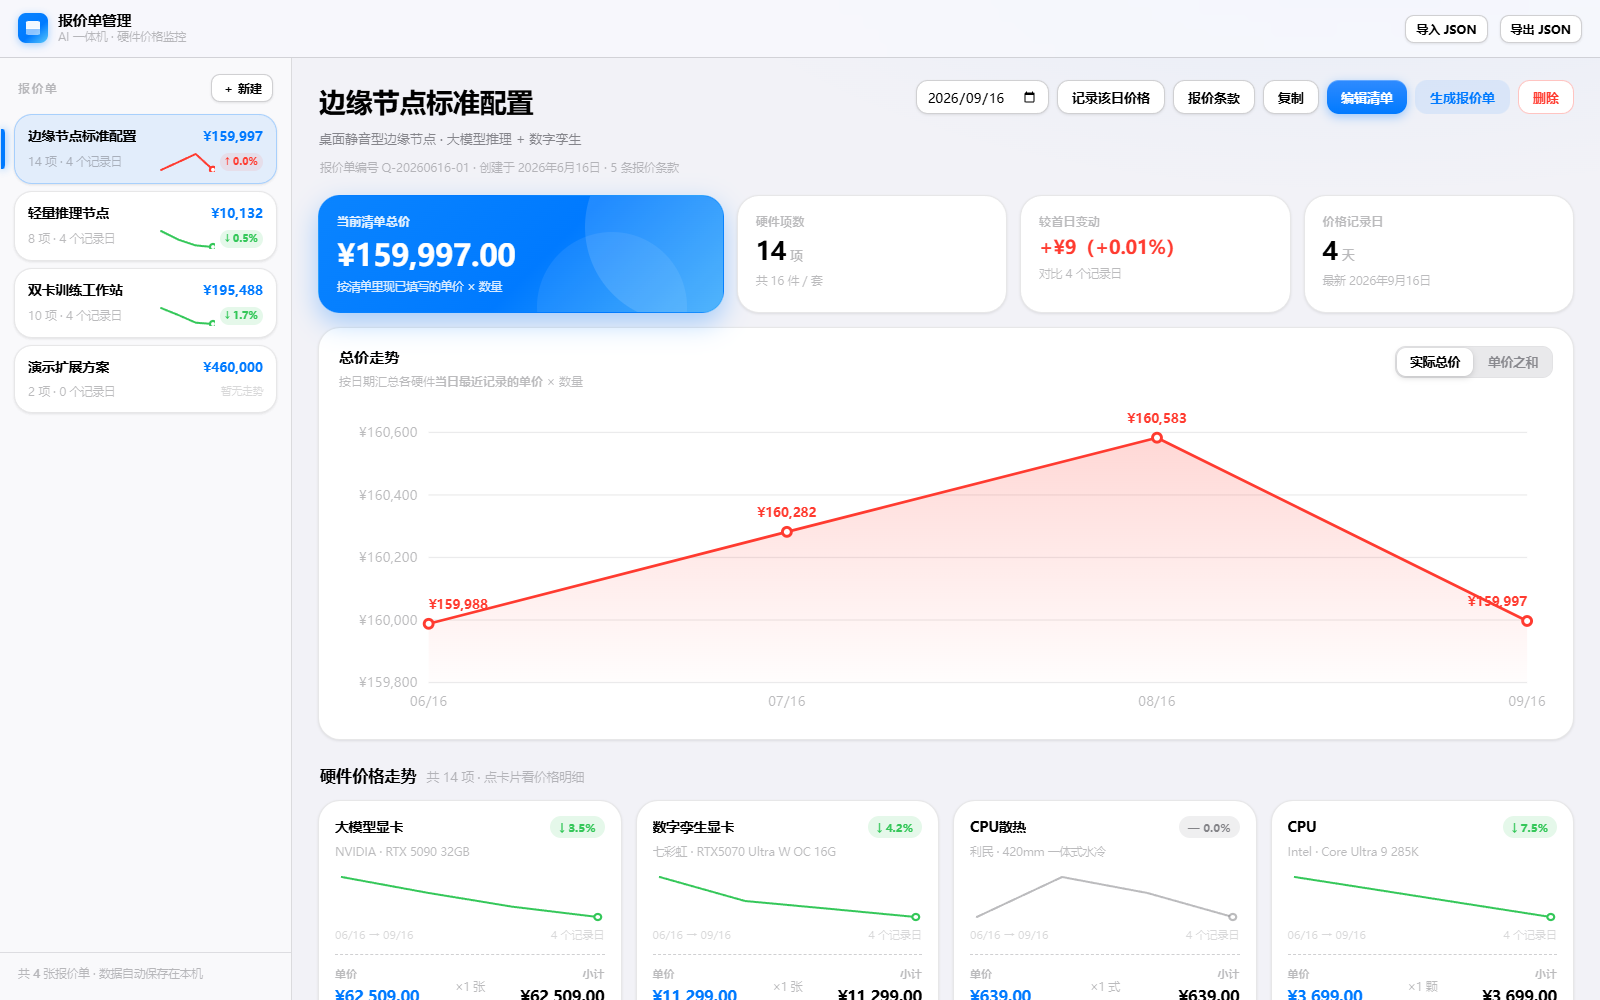
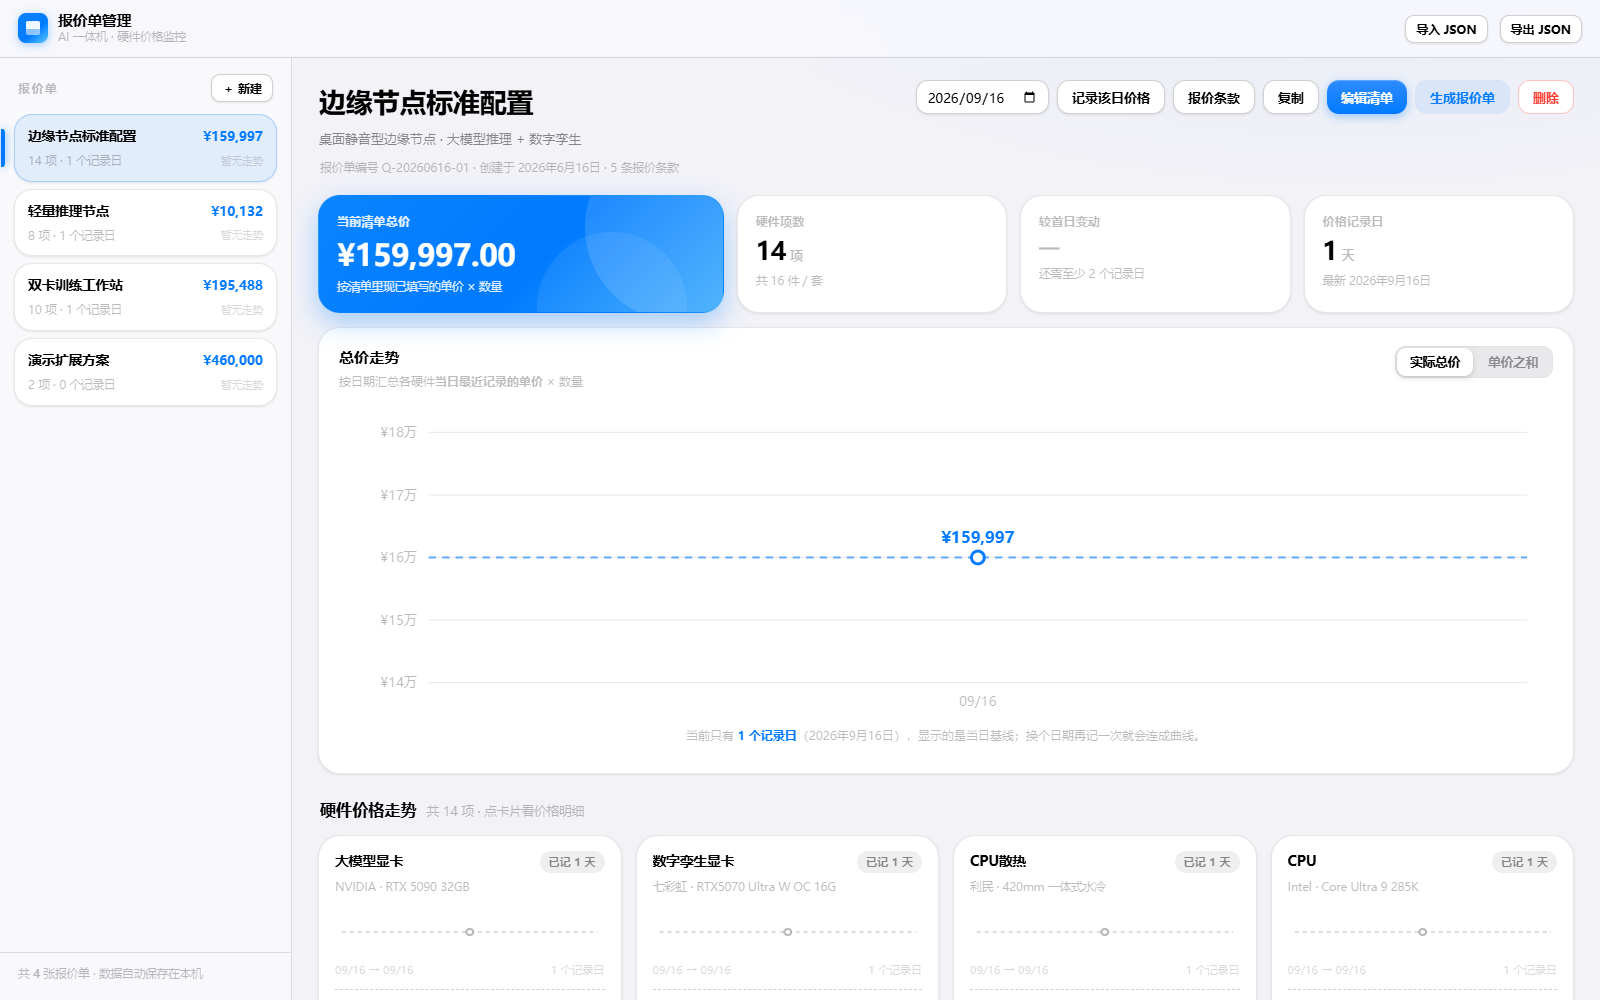
feat: 默认价格历史只保留 9.16（去掉 6/16、7/16、8/16 旧记录）
- 种子数据价格记录收敛为最新一条（2026-09-16）
- 新增「旧版默认示例清单」识别：本机若仍是上一版默认数据（未改动）自动升级
- 明细弹窗单条记录的展示微调（不再同时标注首条/最新）

diff --git a/dist/assets/app.js b/dist/assets/app.js
@@ -213,11 +213,12 @@
   ];
   function buildSeedItems(list) {
     return list.map((o) => {
-      const history = o.hist ? SEED_DATES.map((date, i) => ({
-        date,
-        price: String(o.hist[i]),
-        note: i === 0 ? "首轮询价" : i === SEED_DATES.length - 1 ? "最新询价" : ""
-      })) : [];
+      const latest = o.hist && o.hist.length ? o.hist[o.hist.length - 1] : o.price;
+      const history = o.hist ? [{
+        date: SEED_DATES[SEED_DATES.length - 1],
+        price: String(latest),
+        note: "最新询价"
+      }] : [];
       return {
         id: uid("i"),
         name: o.name,
@@ -352,6 +353,29 @@
   function seedQuotations() {
     return buildSeedQuotations().map((q, i) => makeQuotation(q, i));
   }
+  function isPristineSeed(mapped) {
+    const raw = SEED_QUOTATIONS;
+    if (mapped.length !== raw.length) return false;
+    for (let i = 0; i < raw.length; i++) {
+      const q = mapped[i];
+      const rq = raw[i];
+      if (q.name !== rq.name || q.items.length !== rq.items.length) return false;
+      for (let j = 0; j < rq.items.length; j++) {
+        const it = q.items[j];
+        const ri = rq.items[j];
+        if (it.name !== ri.name || it.price !== String(ri.price) || it.qty !== String(ri.qty ?? 1)) {
+          return false;
+        }
+        const expect = ri.hist ? SEED_DATES.map((d, k) => ({ date: d, price: String(ri.hist[k]) })) : [];
+        const h = it.history || [];
+        if (h.length !== expect.length) return false;
+        for (let k = 0; k < expect.length; k++) {
+          if (h[k].date !== expect[k].date || h[k].price !== expect[k].price) return false;
+        }
+      }
+    }
+    return true;
+  }
   function load() {
     loadPrefs();
     let raw = null;
@@ -377,6 +401,13 @@
           if (isUnusedDefaults) {
             state.quotations = seedQuotations();
             state.activeId = state.quotations[0].id;
+            save(true);
+            return;
+          }
+          const activeIdx = Math.max(0, mapped.findIndex((q) => q.id === o.activeId));
+          if (isPristineSeed(mapped)) {
+            state.quotations = seedQuotations();
+            state.activeId = state.quotations[Math.min(activeIdx, state.quotations.length - 1)].id;
             save(true);
             return;
           }
@@ -962,8 +993,8 @@
       const prev = i > 0 ? util.num(h[i - 1].price) : null;
       const d = prev === null ? null : util.num(r.price) - prev;
       const cls = d === null || d === 0 ? "flat" : d > 0 ? "up" : "down";
-      const txt = d === null ? "首条" : d === 0 ? "0" : (d > 0 ? "+" : "−") + util.money(Math.abs(d));
-      return '<tr><td style="width:150px"><input type="date" data-ri="' + i + '" data-rf="date" value="' + util.esc(r.date) + '"></td><td style="width:132px"><input class="rec-price" data-ri="' + i + '" data-rf="price" value="' + util.esc(r.price) + '" placeholder="0.00"></td><td class="rec-delta ' + cls + '" style="width:104px" data-rdelta="' + i + '">' + txt + '</td><td><input data-ri="' + i + '" data-rf="note" value="' + util.esc(r.note) + '" placeholder="备注…"></td><td style="width:52px;text-align:right">' + (i === h.length - 1 ? '<span class="tag">最新</span>' : "") + '</td><td style="width:44px;text-align:right"><button class="mini-btn del" data-act="recdel" data-ri="' + i + '" title="删除这条记录">✕</button></td></tr>';
+      const txt = d === null ? h.length > 1 ? "首条" : "—" : d === 0 ? "0" : (d > 0 ? "+" : "−") + util.money(Math.abs(d));
+      return '<tr><td style="width:150px"><input type="date" data-ri="' + i + '" data-rf="date" value="' + util.esc(r.date) + '"></td><td style="width:132px"><input class="rec-price" data-ri="' + i + '" data-rf="price" value="' + util.esc(r.price) + '" placeholder="0.00"></td><td class="rec-delta ' + cls + '" style="width:104px" data-rdelta="' + i + '">' + txt + '</td><td><input data-ri="' + i + '" data-rf="note" value="' + util.esc(r.note) + '" placeholder="备注…"></td><td style="width:52px;text-align:right">' + (i === h.length - 1 && h.length > 1 ? '<span class="tag">最新</span>' : "") + '</td><td style="width:44px;text-align:right"><button class="mini-btn del" data-act="recdel" data-ri="' + i + '" title="删除这条记录">✕</button></td></tr>';
     }).join("");
     box.innerHTML = '<table class="rec-table"><thead><tr><th>日期</th><th style="text-align:right">单价 ¥</th><th style="text-align:right">环比</th><th>备注</th><th></th><th></th></tr></thead><tbody>' + rows + "</tbody></table>";
   }

diff --git a/src/store.ts b/src/store.ts
@@ -3,7 +3,7 @@
    对应旧版 assets/js/store.js
    ========================================================= */
 import { uid, byDate, num, todayISO, pad2, toast, hasVal } from "./util";
-import { buildSeedQuotations } from "./seed";
+import { buildSeedQuotations, SEED_QUOTATIONS, SEED_DATES } from "./seed";
 import type { Quotation, QuotationItem, PriceRecord, Term, TrendMode, SeriesPoint, Stats, Delta, TrendInfo } from "./types";
 
 const KEY = "ai-quote-v1";          // 新版数据结构
@@ -137,6 +137,36 @@ function seedQuotations(): Quotation[] {
   return buildSeedQuotations().map((q, i) => makeQuotation(q, i));
 }
 
+/**
+ * 判断本机数据是否等于「上一版种的默认示例清单」（未被人改动过）。
+ * 命中后会用新版默认配置整体替换 —— 例如默认价格只保留 9.16 的升级。
+ */
+function isPristineSeed(mapped: Quotation[]): boolean {
+  const raw = SEED_QUOTATIONS;
+  if (mapped.length !== raw.length) return false;
+  for (let i = 0; i < raw.length; i++) {
+    const q = mapped[i];
+    const rq = raw[i];
+    if (q.name !== rq.name || q.items.length !== rq.items.length) return false;
+    for (let j = 0; j < rq.items.length; j++) {
+      const it = q.items[j];
+      const ri = rq.items[j];
+      if (it.name !== ri.name || it.price !== String(ri.price) || it.qty !== String(ri.qty ?? 1)) {
+        return false;
+      }
+      const expect = ri.hist
+        ? SEED_DATES.map((d, k) => ({ date: d, price: String(ri.hist![k]) }))
+        : [];
+      const h = it.history || [];
+      if (h.length !== expect.length) return false;
+      for (let k = 0; k < expect.length; k++) {
+        if (h[k].date !== expect[k].date || h[k].price !== expect[k].price) return false;
+      }
+    }
+  }
+  return true;
+}
+
 function load(): void {
   loadPrefs();
   let raw: string | null = null;
@@ -170,6 +200,16 @@ function load(): void {
         if (isUnusedDefaults) {
           state.quotations = seedQuotations();
           state.activeId = state.quotations[0].id;
+          save(true);
+          return;
+        }
+
+        /* 数据升级：当本机数据仍是「上一版的默认示例清单」（未改动）时，
+        用新版默认配置替换（例如：默认价格只保留 9.16） */
+        const activeIdx = Math.max(0, mapped.findIndex((q) => q.id === o.activeId));
+        if (isPristineSeed(mapped)) {
+          state.quotations = seedQuotations();
+          state.activeId = state.quotations[Math.min(activeIdx, state.quotations.length - 1)].id;
           save(true);
           return;
         }

diff --git a/src/views/modal.ts b/src/views/modal.ts
@@ -86,14 +86,14 @@ function renderRecords(it: QuotationItem): void {
     const prev = i > 0 ? U.num(h[i - 1].price) : null;
     const d = prev === null ? null : U.num(r.price) - prev;
     const cls = d === null || d === 0 ? "flat" : d > 0 ? "up" : "down";
-    const txt = d === null ? "首条" : d === 0 ? "0" : (d > 0 ? "+" : "−") + U.money(Math.abs(d));
+    const txt = d === null ? (h.length > 1 ? "首条" : "—") : d === 0 ? "0" : (d > 0 ? "+" : "−") + U.money(Math.abs(d));
     return (
       "<tr>" +
       '<td style="width:150px"><input type="date" data-ri="' + i + '" data-rf="date" value="' + U.esc(r.date) + '"></td>' +
       '<td style="width:132px"><input class="rec-price" data-ri="' + i + '" data-rf="price" value="' + U.esc(r.price) + '" placeholder="0.00"></td>' +
       '<td class="rec-delta ' + cls + '" style="width:104px" data-rdelta="' + i + '">' + txt + "</td>" +
       '<td><input data-ri="' + i + '" data-rf="note" value="' + U.esc(r.note) + '" placeholder="备注…"></td>' +
-      '<td style="width:52px;text-align:right">' + (i === h.length - 1 ? '<span class="tag">最新</span>' : "") + "</td>" +
+      '<td style="width:52px;text-align:right">' + (i === h.length - 1 && h.length > 1 ? '<span class="tag">最新</span>' : "") + "</td>" +
       '<td style="width:44px;text-align:right">' +
       '<button class="mini-btn del" data-act="recdel" data-ri="' + i + '" title="删除这条记录">✕</button></td>' +
       "</tr>"

diff --git a/src/seed.ts b/src/seed.ts
@@ -84,15 +84,16 @@ export const SEED_QUOTATIONS: SeedQuotationInput[] = [
   }
 ];
 
-/** 把「当前价 + 历史价数组」展开成带日期的价格记录 */
+/** 把「当前价 + 历史价数组」展开成价格记录；只保留最新一条（9 月 16 日） */
 export function buildSeedItems(list: SeedItemInput[]): QuotationItem[] {
   return list.map((o) => {
+    const latest = o.hist && o.hist.length ? o.hist[o.hist.length - 1] : o.price;
     const history = o.hist
-      ? SEED_DATES.map((date, i) => ({
-          date,
-          price: String(o.hist![i]),
-          note: i === 0 ? "首轮询价" : i === SEED_DATES.length - 1 ? "最新询价" : ""
-        }))
+      ? [{
+          date: SEED_DATES[SEED_DATES.length - 1],
+          price: String(latest),
+          note: "最新询价"
+        }]
       : [];
     return {
       id: uid("i"),
